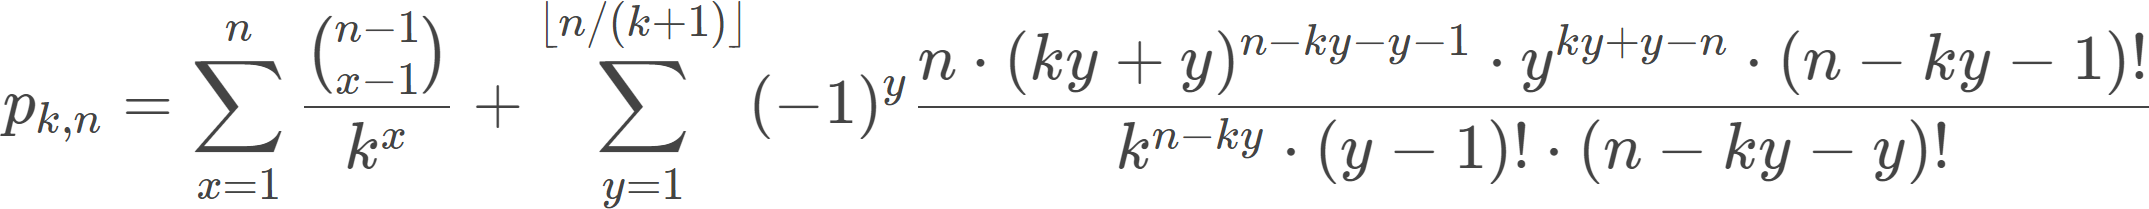
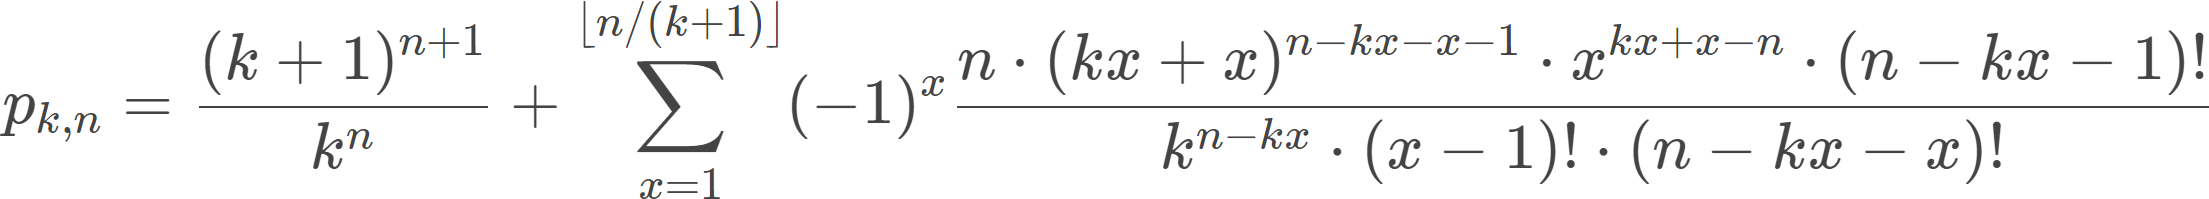
9

diff --git a/resources/blog/9.md b/resources/blog/9.md
@@ -58,7 +58,7 @@ For some reason, the recursive formula didn't fully satisfy me. After grinding m
 
 and the corresponding Mathematica formula.
 
-<pre><code>closed[k_, n_] := Sum[Binomial[n - 1, x - 1]/k^x, {x, 1, n}] +
+<pre><code>closed[k_, n_] := (k + 1)^(n - 1)/k^n +
   Sum[(-1)^y*n*(k*y + y)^(n - k*y - y - 1)*y^(k*y + y - n)*(n - k*y - 1)! /
   k^(n - k*y)/(y - 1)!/(n - k*y - y)!, {y, 1, Floor[n/(k + 1)]}]
 closed[6, 100]</code></pre>
